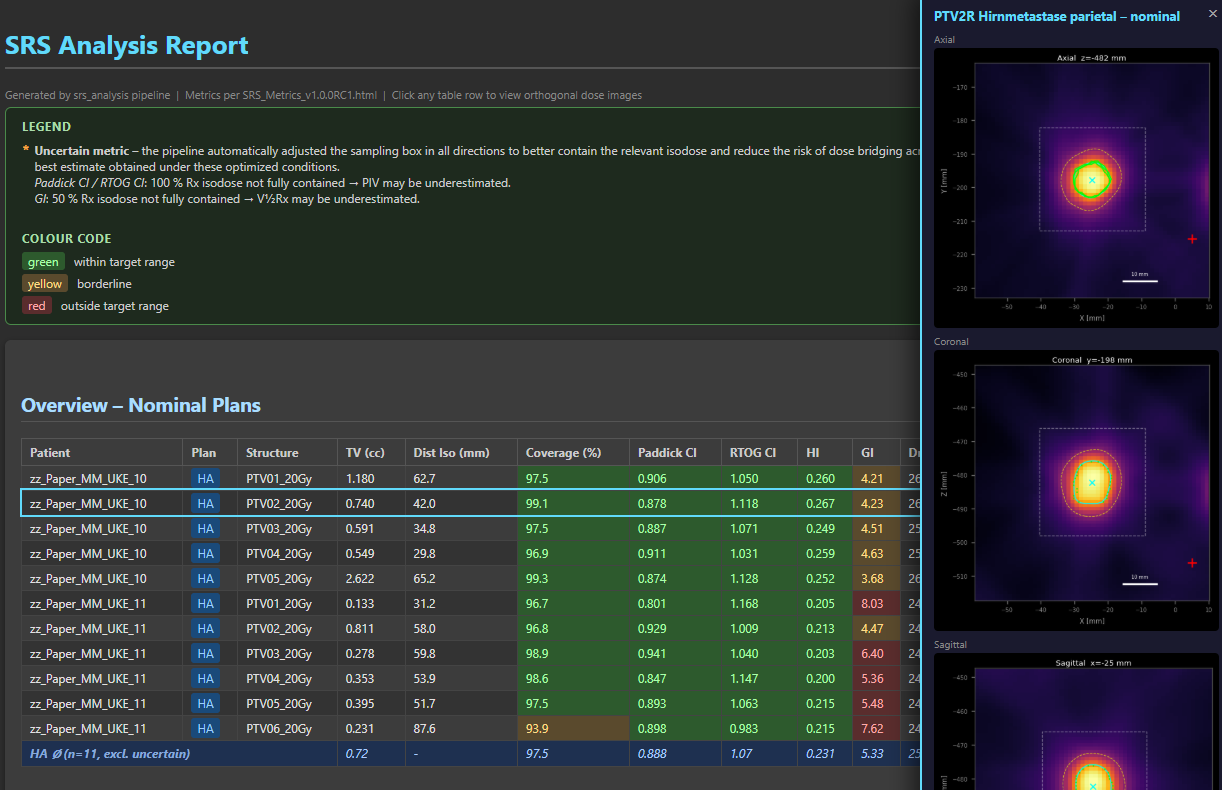
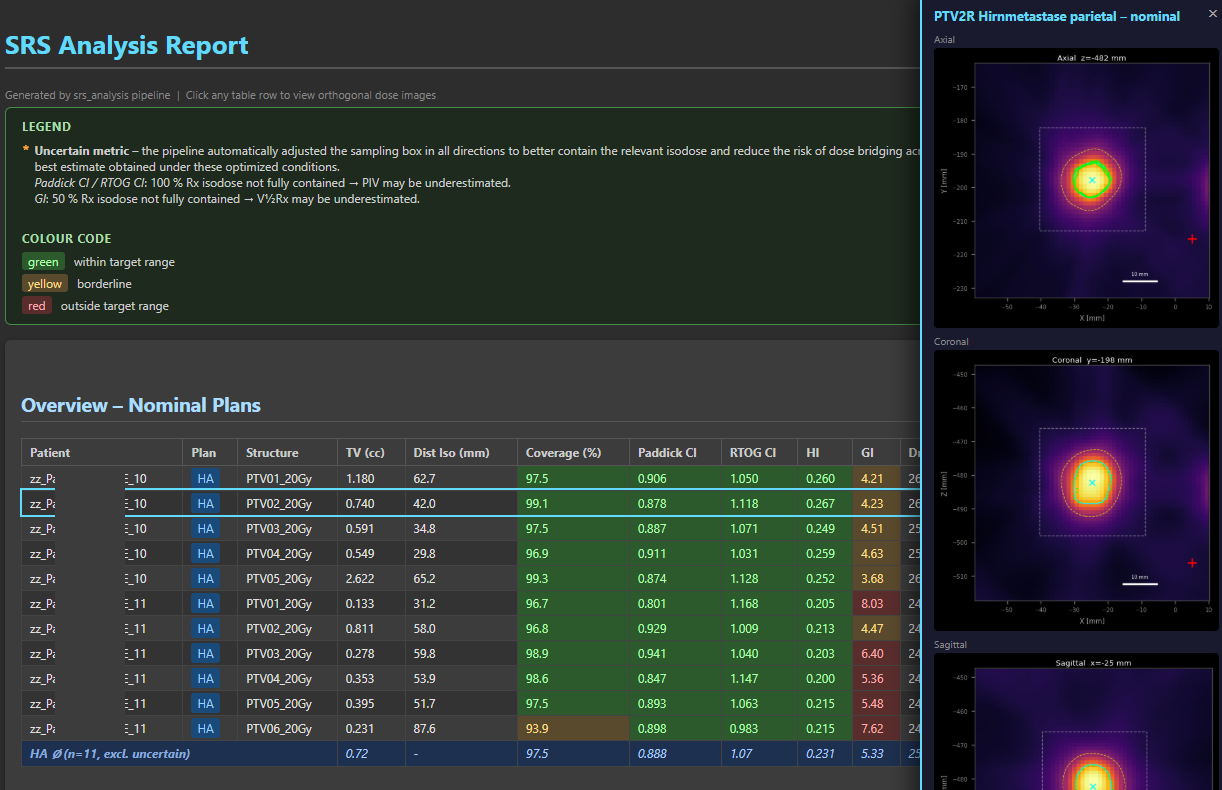
better Readme

Changed region(s): [[0.0311, 0.5772, 0.0933, 0.9418], [0.1555, 0.0911, 0.3732, 0.1519]]

diff --git a/html_report.py b/html_report.py
@@ -217,7 +217,7 @@ def _build_html(
 <body>
 <h1>SRS Analysis Report</h1>
 <p class="meta-note">Generated by srs_analysis pipeline &nbsp;|&nbsp;
-Metrics per SRS_Metrics_v1.0.0RC1.html &nbsp;|&nbsp; Click any table row to view orthogonal dose images</p>
+Click any table row to view orthogonal dose images</p>
 <div class="legend-box">
   <div>
     <h4>LEGEND</h4>
